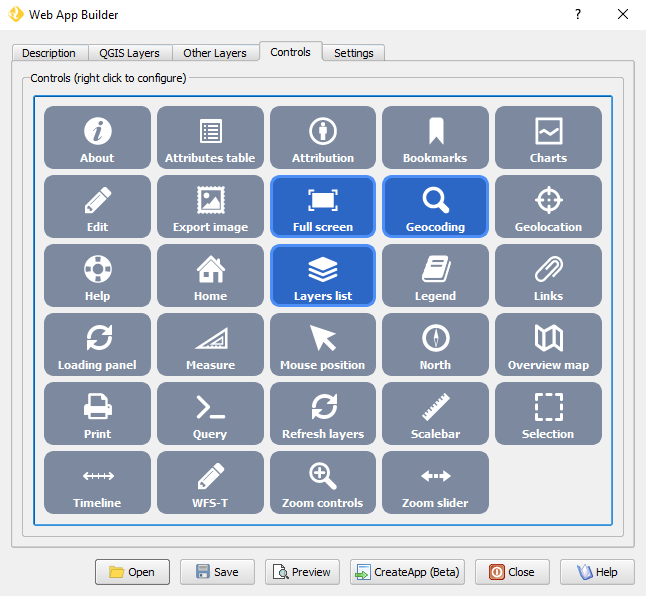
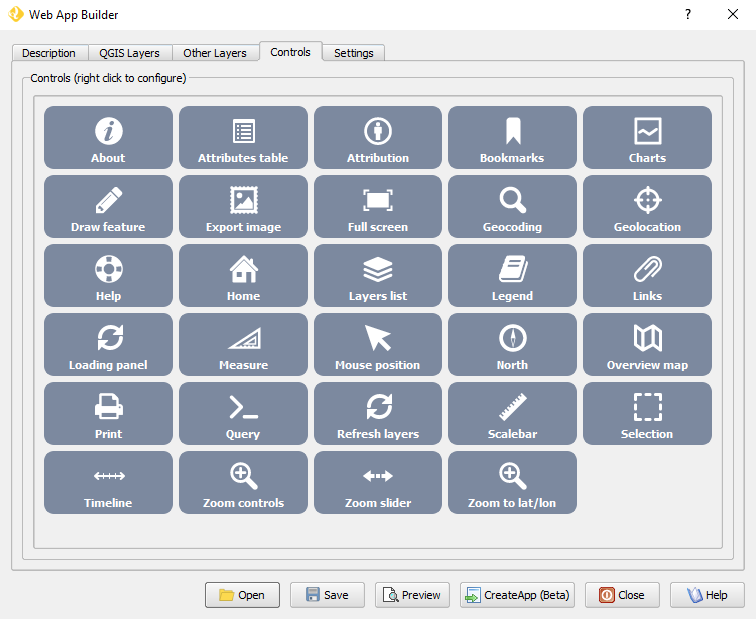
Updates Add new layer in Docs

diff --git a/docs/source/controls.rst b/docs/source/controls.rst
@@ -36,19 +36,6 @@ The following properties can be configured for this control:
    content must be handled accordingly using HTML code (e.g., quotation marks
    should be replaced by ``&quot;``).
 
-.. Add layer
-   ---------
-
-   Adds a menu entry named *upload* that can be used by the web app user to add
-   a layer to the map. Only vector layers can be added. Supported formats for
-   layers are *GeoJSON*, *GPX* and *KML*.
-
-   .. figure:: img/upload.png
-
-      About panel configuration
-
-   There are no configurable properties for this control.
-
 
 Attributes table
 ----------------
@@ -356,6 +343,26 @@ The following properties can be configured for this control:
 
    * - Option
      - Description
+   * - ShowNew
+     - Adds a New Layer button in the layer lists which allows the user to
+       add new layers to the app. The user can either Upload a local file or
+       Create new layer.
+
+       * The **Upload a local file** option only allows to upload vector
+         layers. Supported formats for layers are *GeoJSON*, *GPX* and *KML*.
+
+       .. figure:: img/upload.png
+
+          Upload local file dialog
+
+       * The **Create new layer** option allow to choose the geometry type
+         and a comma-separated list of attributes. Note: To add new features to
+         the layer, the ref:`qgis.webappbuilder.controls.drawFeatures`
+         control must be enabled.
+
+       .. figure:: img/create_new_layer.png
+
+          Create new layer dialog
    * - allowFiltering
      - Allows the user to set filters for conditional rendering. A filter
        button is added to each vector layer entry in the layers list, which
@@ -365,8 +372,8 @@ The following properties can be configured for this control:
 
           Layer filters example
 
-       Layer filters are added as filter expressions, using the notation
-       accepted by the `Filtrex <https://github.com/joewalnes/filtrex#expressions>`_ library.
+       Layer filters are added as filter expressions, using the
+       expressions described in :ref:`search_filter_notation`.
    * - allowReordering
      - Allows the user to change the rendering order of layers.
    * - showDownload
@@ -767,8 +774,6 @@ The following properties can be configured for this control:
      - Description
    * - refreshRate
      - Refresh rate in ms for handling changes from the slider.
-
-.. TODO:: Document available filters
 
 .. _search_filter_notation:
 
